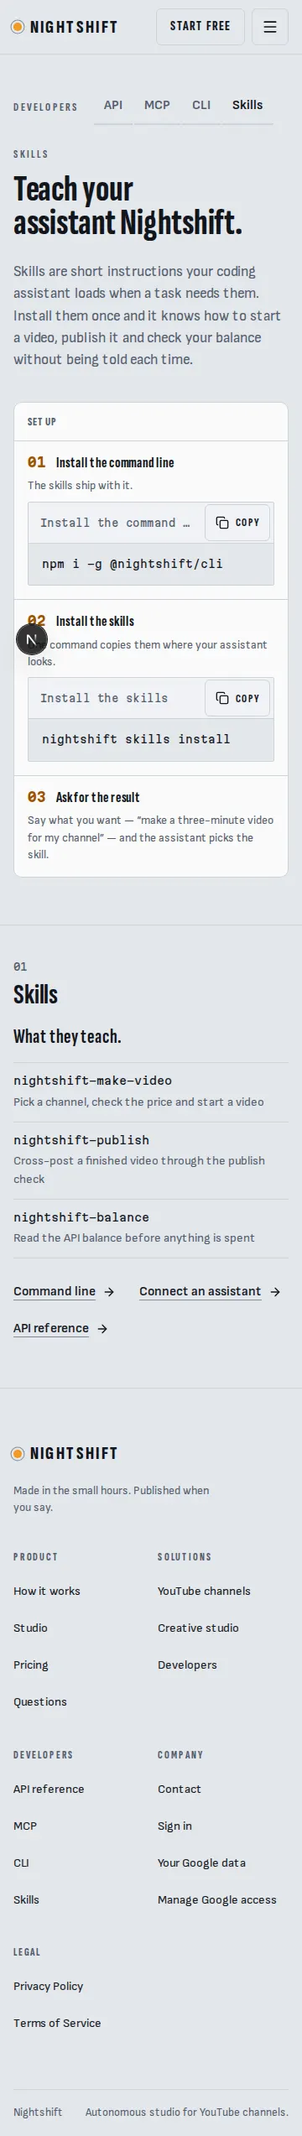
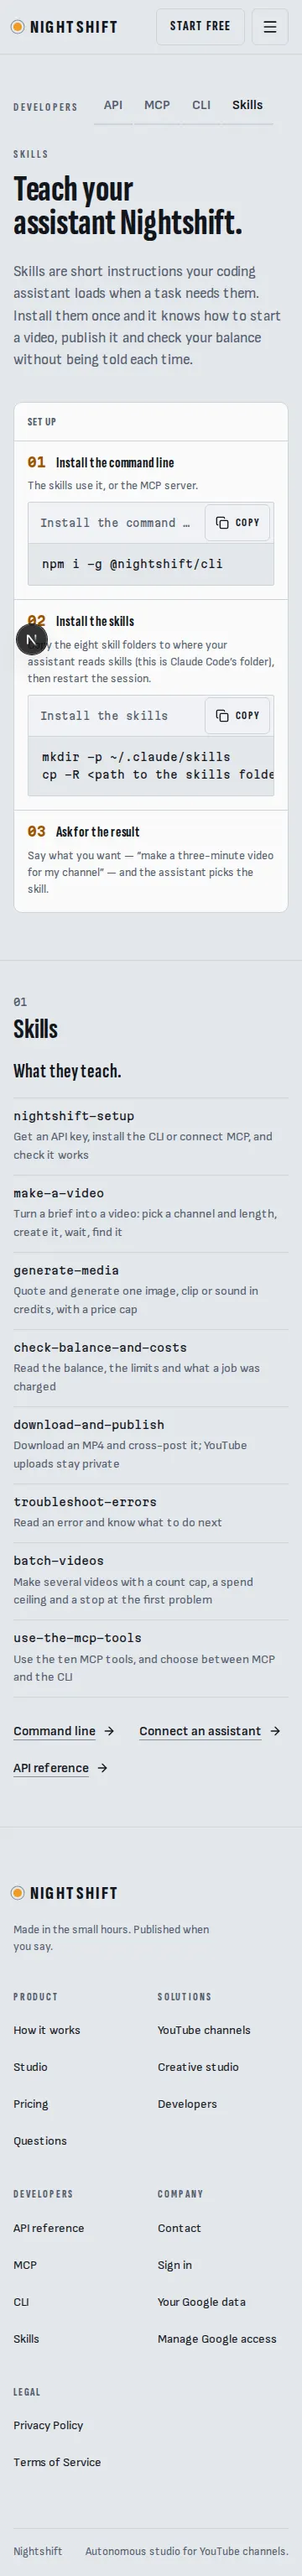
Developer pages: real CLI commands and skills, truthful balance wording on the developers solution
Claude-Session: https://claude.ai/code/session_01U9oHiSfJHWxDDyJSd8fLSk

diff --git a/command-center/lib/i18n/site/dev-ru.ts b/command-center/lib/i18n/site/dev-ru.ts
@@ -252,7 +252,7 @@ export const devRu: DevDictionary = {
     steps: [
       { id: "install", title: "Установите", body: "Нужен Node.js. Одна глобальная установка." },
       { id: "login", title: "Войдите", body: "Вставьте API-ключ из «Разработчикам» → «API-ключи», когда его попросят. Он хранится на этом компьютере." },
-      { id: "run", title: "Выполните команду", body: "Начните со своих каналов. Любая команда показывает цену до того, как что-то потратит." },
+      { id: "run", title: "Выполните команду", body: "Команды, которые тратят деньги, сообщают, что зарезервировано, и ничего не списывается, пока работа не завершена успешно." },
     ],
     commands: {
       slug: "Команды",
@@ -260,13 +260,23 @@ export const devRu: DevDictionary = {
       table: "Команды",
       cols: { command: "Команда", what: "Что делает" },
       list: [
-        { id: "login", what: "Сохранить API-ключ на этом компьютере" },
+        { id: "login", what: "Сохранить API-ключ на этом компьютере (сначала он проверяется)" },
+        { id: "logout", what: "Удалить сохранённый ключ с этого компьютера" },
+        { id: "whoami", what: "Показать вашу организацию, уровень и лимиты" },
+        { id: "balance", what: "Показать предоплаченный баланс API, зарезервированную сумму и расходы за месяц" },
         { id: "channels", what: "Показать ваши каналы и их id" },
-        { id: "create", what: "Запустить видео для канала" },
-        { id: "job", what: "Следить за задачей: статус и списание" },
-        { id: "publish", what: "Опубликовать готовое видео на других площадках" },
-        { id: "download", what: "Заказать и скачать HD-файл" },
-        { id: "balance", what: "Показать баланс API и уровень" },
+        { id: "accounts", what: "Показать, куда можно публиковать" },
+        { id: "create", what: "Создать видео; зарезервированная сумма выводится, а --wait следит за задачей" },
+        { id: "jobs-get", what: "Показать статус задачи на видео и списание" },
+        { id: "videos-list", what: "Показать видео, сначала новые" },
+        { id: "videos-get", what: "Показать одно видео с запросами на публикацию" },
+        { id: "download-request", what: "Заказать MP4 в 720p или 1080p" },
+        { id: "download-get", what: "Показать статус скачивания" },
+        { id: "download-save", what: "Сохранить готовый файл скачивания" },
+        { id: "publish", what: "Опубликовать готовое видео на других площадках (бесплатно; на YouTube загрузка остаётся приватной)" },
+        { id: "quote", what: "Показать цену одной генерации в кредитах" },
+        { id: "generate", what: "Запустить генерацию (--max-credits обязателен)" },
+        { id: "generations-get", what: "Показать генерацию, запущенную этим ключом" },
       ],
     },
     more: { api: "Справочник API", skills: "Навыки для агентов", mcp: "Подключить ассистента" },
@@ -281,8 +291,8 @@ export const devRu: DevDictionary = {
     lead: "Навыки — это короткие инструкции, которые ассистент для кода подгружает, когда задаче они нужны. Установите их один раз, и он будет знать, как запустить видео, опубликовать его и проверить баланс, без напоминаний каждый раз.",
     cardTitle: "Настройка",
     steps: [
-      { id: "install", title: "Установите командную строку", body: "Навыки идут вместе с ней." },
-      { id: "skills", title: "Установите навыки", body: "Одна команда копирует их туда, где их ищет ассистент." },
+      { id: "install", title: "Установите командную строку", body: "Навыки используют её или MCP-сервер." },
+      { id: "skills", title: "Установите навыки", body: "Скопируйте восемь папок с навыками туда, где ваш ассистент читает навыки (это папка Claude Code), и перезапустите сессию." },
       { id: "ask", title: "Попросите результат", body: "Скажите, что нужно, — «сделай трёхминутное видео для моего канала», — и ассистент выберет навык." },
     ],
     list: {
@@ -291,9 +301,14 @@ export const devRu: DevDictionary = {
       table: "Навыки",
       cols: { skill: "Навык", what: "Чему учит" },
       items: [
-        { id: "make-video", what: "Выбрать канал, проверить цену и запустить видео" },
-        { id: "publish", what: "Опубликовать готовое видео через проверку перед публикацией" },
-        { id: "balance", what: "Прочитать баланс API до любых трат" },
+        { id: "nightshift-setup", what: "Получить API-ключ, установить CLI или подключить MCP и проверить, что всё работает" },
+        { id: "make-a-video", what: "Превратить задание в видео: выбрать канал и длину, создать, дождаться, найти" },
+        { id: "generate-media", what: "Узнать цену и создать одну картинку, клип или звук в кредитах с ограничением цены" },
+        { id: "check-balance-and-costs", what: "Прочитать баланс, лимиты и то, сколько списано за задачу" },
+        { id: "download-and-publish", what: "Скачать MP4 и опубликовать на других площадках; на YouTube загрузка остаётся приватной" },
+        { id: "troubleshoot-errors", what: "Прочитать ошибку и понять, что делать дальше" },
+        { id: "batch-videos", what: "Создать несколько видео с лимитом по числу, потолком трат и остановкой при первой проблеме" },
+        { id: "use-the-mcp-tools", what: "Пользоваться десятью инструментами MCP и выбирать между MCP и CLI" },
       ],
     },
     more: { api: "Справочник API", cli: "Командная строка", mcp: "Подключить ассистента" },

diff --git a/command-center/lib/i18n/site/dev-uz.ts b/command-center/lib/i18n/site/dev-uz.ts
@@ -252,7 +252,7 @@ export const devUz: DevDictionary = {
     steps: [
       { id: "install", title: "Oʻrnating", body: "Node.js kerak. Bitta global oʻrnatish." },
       { id: "login", title: "Kiring", body: "Soʻralganda “Dasturchilar” → “API kalitlari” dagi API kalitni qoʻying. U shu kompyuterda saqlanadi." },
-      { id: "run", title: "Buyruq bajaring", body: "Kanallaringizdan boshlang. Har bir buyruq biror narsa sarflashdan oldin narxni koʻrsatadi." },
+      { id: "run", title: "Buyruq bajaring", body: "Pul sarflaydigan buyruqlar nima band qilinganini aytadi, ish muvaffaqiyatli tugamaguncha hech narsa yechilmaydi." },
     ],
     commands: {
       slug: "Buyruqlar",
@@ -260,13 +260,23 @@ export const devUz: DevDictionary = {
       table: "Buyruqlar",
       cols: { command: "Buyruq", what: "Nima qiladi" },
       list: [
-        { id: "login", what: "API kalitni shu kompyuterda saqlash" },
+        { id: "login", what: "API kalitni shu kompyuterda saqlash (avval tekshiriladi)" },
+        { id: "logout", what: "Saqlangan kalitni shu kompyuterdan oʻchirish" },
+        { id: "whoami", what: "Tashkilotingiz, daraja va limitlarni koʻrsatish" },
+        { id: "balance", what: "Oldindan toʻlangan API balansi, band qilingan summa va shu oydagi sarfni koʻrsatish" },
         { id: "channels", what: "Kanallaringiz va ularning id’larini koʻrsatish" },
-        { id: "create", what: "Kanal uchun video boshlash" },
-        { id: "job", what: "Vazifani kuzatish: holat va yechilgan summa" },
-        { id: "publish", what: "Tayyor videoni boshqa platformalarda nashr qilish" },
-        { id: "download", what: "HD faylga buyurtma berish va yuklab olish" },
-        { id: "balance", what: "API balansi va darajasini koʻrsatish" },
+        { id: "accounts", what: "Qayerda nashr qilish mumkinligini koʻrsatish" },
+        { id: "create", what: "Video yaratish; band qilingan summa chiqariladi, --wait esa vazifani kuzatadi" },
+        { id: "jobs-get", what: "Video vazifasining holati va yechilgan summani koʻrsatish" },
+        { id: "videos-list", what: "Videolar roʻyxati, yangilari birinchi" },
+        { id: "videos-get", what: "Nashr soʻrovlari bilan bitta videoni koʻrsatish" },
+        { id: "download-request", what: "720p yoki 1080p MP4 ga buyurtma berish" },
+        { id: "download-get", what: "Yuklab olish holatini koʻrsatish" },
+        { id: "download-save", what: "Tayyor yuklab olishni fayl sifatida saqlash" },
+        { id: "publish", what: "Tayyor videoni boshqa platformalarda nashr qilish (bepul; YouTube’ga yuklash maxfiy qoladi)" },
+        { id: "quote", what: "Bitta generatsiyaning kreditlardagi narxini koʻrsatish" },
+        { id: "generate", what: "Generatsiyani boshlash (--max-credits majburiy)" },
+        { id: "generations-get", what: "Shu kalit boshlagan generatsiyani koʻrsatish" },
       ],
     },
     more: { api: "API maʼlumotnomasi", skills: "Agent koʻnikmalari", mcp: "Yordamchini ulash" },
@@ -281,8 +291,8 @@ export const devUz: DevDictionary = {
     lead: "Koʻnikmalar — kod yordamchingiz vazifaga kerak boʻlganda yuklaydigan qisqa yoʻriqnomalar. Ularni bir marta oʻrnating, shunda u har safar eslatilmasdan video boshlash, nashr qilish va balansni tekshirishni biladi.",
     cardTitle: "Sozlash",
     steps: [
-      { id: "install", title: "Buyruq qatorini oʻrnating", body: "Koʻnikmalar u bilan birga keladi." },
-      { id: "skills", title: "Koʻnikmalarni oʻrnating", body: "Bitta buyruq ularni yordamchingiz qidiradigan joyga nusxalaydi." },
+      { id: "install", title: "Buyruq qatorini oʻrnating", body: "Koʻnikmalar uni yoki MCP serverini ishlatadi." },
+      { id: "skills", title: "Koʻnikmalarni oʻrnating", body: "Sakkizta koʻnikma jildini yordamchingiz koʻnikmalarni oʻqiydigan joyga nusxalang (bu Claude Code jildi), keyin sessiyani qayta ishga tushiring." },
       { id: "ask", title: "Natijani soʻrang", body: "Nima kerakligini ayting — “kanalim uchun uch daqiqalik video yarat” — va yordamchi koʻnikmani oʻzi tanlaydi." },
     ],
     list: {
@@ -291,9 +301,14 @@ export const devUz: DevDictionary = {
       table: "Koʻnikmalar",
       cols: { skill: "Koʻnikma", what: "Nimani oʻrgatadi" },
       items: [
-        { id: "make-video", what: "Kanalni tanlash, narxni tekshirish va video boshlash" },
-        { id: "publish", what: "Tayyor videoni nashrdan oldingi tekshiruv orqali nashr qilish" },
-        { id: "balance", what: "Biror narsa sarflanishidan oldin API balansini oʻqish" },
+        { id: "nightshift-setup", what: "API kalit olish, CLI oʻrnatish yoki MCP’ni ulash va ishlashini tekshirish" },
+        { id: "make-a-video", what: "Topshiriqni videoga aylantirish: kanal va uzunlikni tanlash, yaratish, kutish, topish" },
+        { id: "generate-media", what: "Narxni bilib, bitta rasm, klip yoki tovushni kreditlarda narx chegarasi bilan yaratish" },
+        { id: "check-balance-and-costs", what: "Balans, limitlar va vazifa uchun yechilgan summani oʻqish" },
+        { id: "download-and-publish", what: "MP4 yuklab olish va boshqa platformalarda nashr qilish; YouTube’ga yuklash maxfiy qoladi" },
+        { id: "troubleshoot-errors", what: "Xatoni oʻqib, keyin nima qilishni bilish" },
+        { id: "batch-videos", what: "Bir nechta videoni son chegarasi, sarf chegarasi va birinchi muammoda toʻxtash bilan yaratish" },
+        { id: "use-the-mcp-tools", what: "Oʻnta MCP vositasidan foydalanish va MCP bilan CLI oʻrtasida tanlash" },
       ],
     },
     more: { api: "API maʼlumotnomasi", cli: "Buyruq qatori", mcp: "Yordamchini ulash" },

diff --git a/command-center/lib/i18n/site/dev-en.ts b/command-center/lib/i18n/site/dev-en.ts
@@ -264,7 +264,7 @@ export const devEn = {
     steps: [
       { id: "install", title: "Install it", body: "Needs Node.js. One global install." },
       { id: "login", title: "Log in", body: "Paste an API key from Developers → API keys when asked. It is kept on this computer." },
-      { id: "run", title: "Run a command", body: "Start with your channels. Every command prints the price before it spends." },
+      { id: "run", title: "Run a command", body: "Commands that spend say what is reserved, and nothing is charged until the work succeeds." },
     ],
     commands: {
       slug: "Commands",
@@ -272,13 +272,23 @@ export const devEn = {
       table: "Commands",
       cols: { command: "Command", what: "What it does" },
       list: [
-        { id: "login", what: "Save an API key for this computer" },
+        { id: "login", what: "Save an API key on this computer (checked first)" },
+        { id: "logout", what: "Delete the saved key from this computer" },
+        { id: "whoami", what: "Show your organization, tier and limits" },
+        { id: "balance", what: "Show the prepaid API balance, the reserved amount and this month’s spend" },
         { id: "channels", what: "List your channels and their ids" },
-        { id: "create", what: "Start a video for a channel" },
-        { id: "job", what: "Follow a video job: status and charge" },
-        { id: "publish", what: "Cross-post a finished video" },
-        { id: "download", what: "Order and fetch an HD download" },
-        { id: "balance", what: "Show your API balance and tier" },
+        { id: "accounts", what: "List where you can publish" },
+        { id: "create", what: "Make a video; the amount reserved is printed, and --wait follows the job" },
+        { id: "jobs-get", what: "Show a video job’s status and charge" },
+        { id: "videos-list", what: "List videos, newest first" },
+        { id: "videos-get", what: "Show one video with its publish requests" },
+        { id: "download-request", what: "Order a 720p or 1080p MP4" },
+        { id: "download-get", what: "Show a download’s status" },
+        { id: "download-save", what: "Save a ready download as a file" },
+        { id: "publish", what: "Cross-post a finished video (free; YouTube uploads stay private)" },
+        { id: "quote", what: "Show the price of one generation, in credits" },
+        { id: "generate", what: "Start a generation (--max-credits is required)" },
+        { id: "generations-get", what: "Show a generation this key started" },
       ],
     },
     more: { api: "API reference", skills: "Agent skills", mcp: "Connect an assistant" },
@@ -293,8 +303,8 @@ export const devEn = {
     lead: "Skills are short instructions your coding assistant loads when a task needs them. Install them once and it knows how to start a video, publish it and check your balance without being told each time.",
     cardTitle: "Set up",
     steps: [
-      { id: "install", title: "Install the command line", body: "The skills ship with it." },
-      { id: "skills", title: "Install the skills", body: "One command copies them where your assistant looks." },
+      { id: "install", title: "Install the command line", body: "The skills use it, or the MCP server." },
+      { id: "skills", title: "Install the skills", body: "Copy the eight skill folders to where your assistant reads skills (this is Claude Code’s folder), then restart the session." },
       { id: "ask", title: "Ask for the result", body: "Say what you want — “make a three-minute video for my channel” — and the assistant picks the skill." },
     ],
     list: {
@@ -303,9 +313,14 @@ export const devEn = {
       table: "Skills",
       cols: { skill: "Skill", what: "What it teaches" },
       items: [
-        { id: "make-video", what: "Pick a channel, check the price and start a video" },
-        { id: "publish", what: "Cross-post a finished video through the publish check" },
-        { id: "balance", what: "Read the API balance before anything is spent" },
+        { id: "nightshift-setup", what: "Get an API key, install the CLI or connect MCP, and check it works" },
+        { id: "make-a-video", what: "Turn a brief into a video: pick a channel and length, create it, wait, find it" },
+        { id: "generate-media", what: "Quote and generate one image, clip or sound in credits, with a price cap" },
+        { id: "check-balance-and-costs", what: "Read the balance, the limits and what a job was charged" },
+        { id: "download-and-publish", what: "Download an MP4 and cross-post it; YouTube uploads stay private" },
+        { id: "troubleshoot-errors", what: "Read an error and know what to do next" },
+        { id: "batch-videos", what: "Make several videos with a count cap, a spend ceiling and a stop at the first problem" },
+        { id: "use-the-mcp-tools", what: "Use the ten MCP tools, and choose between MCP and the CLI" },
       ],
     },
     more: { api: "API reference", cli: "Command line", mcp: "Connect an assistant" },

diff --git a/command-center/lib/dev/cli-skills.ts b/command-center/lib/dev/cli-skills.ts
@@ -1,16 +1,15 @@
 /**
- * What /docs/cli and /docs/skills tell people to type — in ONE place, so the
- * day the command-line tool and the skills are published (they are built on
- * branch claude/dev-cli-skills: packages/cli, skills/) this is the only file
- * that changes. The pages themselves are off until DEV_CLI_PAGE=1
- * (lib/dev-pages.ts).
+ * What /docs/cli and /docs/skills tell people to type — in ONE place. These are
+ * the real command table of packages/cli (docs/CLI.md; `nightshift commands
+ * --json`) and the eight skills in skills/ (skills/README.md); the words per
+ * language are in lib/i18n/site/dev-*.ts keyed by `id`, and
+ * tests/dev-pages-copy.test.ts keeps the ids equal in every language.
+ * tests/test_cli_package.py and tests/test_agent_skills.py already keep the CLI
+ * and skills honest against the API; tests/dev-pages-copy.test.ts keeps these
+ * lists equal to them.
  *
- * PLACEHOLDER: the install, login and skills-install lines are the ones agreed
- * for the first release. The command list and the skill list below are
- * PLACEHOLDERS drawn from what the public API can do — replace them with the
- * names and one-line descriptions from packages/cli and skills/ before the flag
- * is switched on (their text, per language, is in lib/i18n/site/dev-*.ts keyed
- * by `id`; tests/dev-pages-copy.test.ts keeps the ids equal in every language).
+ * The pages stay off until DEV_CLI_PAGE=1 (lib/dev-pages.ts): the package is
+ * not published to npm yet, so the install line would be a false promise.
  */
 
 export const CLI_PACKAGE = "@nightshift/cli";
@@ -18,23 +17,43 @@ export const CLI_INSTALL = `npm i -g ${CLI_PACKAGE}`;
 export const CLI_LOGIN = "nightshift login";
 /** The first command a new person runs after logging in. */
 export const CLI_FIRST_RUN = "nightshift channels";
-/** PLACEHOLDER until skills/README lands: how the skills are installed. */
-export const SKILLS_INSTALL = "nightshift skills install";
+/**
+ * How the skills are installed today: copy the folders to where the assistant
+ * reads them (skills/README.md). The `npx skills add <owner>/<repo>` route
+ * there is an owner TODO until the repository is public; change this line the
+ * day it works.
+ */
+export const SKILLS_INSTALL = "mkdir -p ~/.claude/skills\ncp -R <path to the skills folder>/* ~/.claude/skills/";
 
-/** PLACEHOLDER command list: id → the command as typed. */
+/** The CLI's commands (docs/CLI.md): id → the command as typed, in the table's order. */
 export const CLI_COMMANDS = [
   { id: "login", command: "nightshift login" },
-  { id: "channels", command: "nightshift channels" },
-  { id: "create", command: "nightshift videos create" },
-  { id: "job", command: "nightshift jobs get <id>" },
-  { id: "publish", command: "nightshift videos publish <id>" },
-  { id: "download", command: "nightshift videos download <id>" },
+  { id: "logout", command: "nightshift logout" },
+  { id: "whoami", command: "nightshift whoami" },
   { id: "balance", command: "nightshift balance" },
+  { id: "channels", command: "nightshift channels" },
+  { id: "accounts", command: "nightshift accounts" },
+  { id: "create", command: "nightshift create --channel ID --topic TEXT [--wait]" },
+  { id: "jobs-get", command: "nightshift jobs get ID [--wait]" },
+  { id: "videos-list", command: "nightshift videos list [--channel ID]" },
+  { id: "videos-get", command: "nightshift videos get VIDEO_ID" },
+  { id: "download-request", command: "nightshift download request VIDEO_ID --quality 1080p [--wait]" },
+  { id: "download-get", command: "nightshift download get ID [--wait]" },
+  { id: "download-save", command: "nightshift download save ID [--out FILE]" },
+  { id: "publish", command: "nightshift publish VIDEO_ID --youtube CHANNEL_ID --account UUID" },
+  { id: "quote", command: "nightshift quote --capability NAME --model ID --prompt TEXT" },
+  { id: "generate", command: "nightshift generate --capability NAME --model ID --prompt TEXT --max-credits N [--wait]" },
+  { id: "generations-get", command: "nightshift generations get ID [--wait]" },
 ] as const;
 
-/** PLACEHOLDER skill list: id → the skill's name as installed. */
+/** The eight skills (skills/README.md), in the README's order. The name is the folder name. */
 export const SKILLS = [
-  { id: "make-video", name: "nightshift-make-video" },
-  { id: "publish", name: "nightshift-publish" },
-  { id: "balance", name: "nightshift-balance" },
+  { id: "nightshift-setup", name: "nightshift-setup" },
+  { id: "make-a-video", name: "make-a-video" },
+  { id: "generate-media", name: "generate-media" },
+  { id: "check-balance-and-costs", name: "check-balance-and-costs" },
+  { id: "download-and-publish", name: "download-and-publish" },
+  { id: "troubleshoot-errors", name: "troubleshoot-errors" },
+  { id: "batch-videos", name: "batch-videos" },
+  { id: "use-the-mcp-tools", name: "use-the-mcp-tools" },
 ] as const;

diff --git a/command-center/lib/i18n/site/ru.ts b/command-center/lib/i18n/site/ru.ts
@@ -329,13 +329,13 @@ export const siteRu: SiteDictionary = {
         what: [
           { title: "REST API", body: "Каналы, видео, задачи, загрузки и баланс по адресу /api/v1, с bearer-ключом." },
           { title: "MCP-эндпоинт", body: "Те же ключи работают с ассистентами, которые понимают Model Context Protocol." },
-          { title: "Свой баланс", body: "API оплачивается с отдельного предоплаченного баланса с видимыми месячными лимитами." },
+          { title: "Свой баланс", body: "Видео, созданные через API, оплачиваются с отдельного предоплаченного баланса с видимыми месячными лимитами. Генерации оплачиваются вашими кредитами, как в Студии." },
           { title: "Ключи под контролем", body: "Создавайте и отзывайте ключи в консоли разработчика и смотрите там же расход и лимиты." },
         ],
         not: [
           "Не откроет API, пока вы не включите его и не примете условия API.",
           "Не опубликует в обход — видео, сделанные через API, проходят те же ворота одобрения.",
-          "Не будет списывать вызовы API с вашего баланса кредитов.",
+          "Не смешивает два баланса: видео оплачиваются с баланса API, а генерации — вашими кредитами.",
         ],
         start: ["Прочитайте справочник API", "Включите API в консоли разработчика", "Создайте ключ и сделайте первый вызов"],
         docs: "Справочник API",

diff --git a/command-center/tests/dev-pages-copy.test.ts b/command-center/tests/dev-pages-copy.test.ts
@@ -1,4 +1,7 @@
 import { describe, expect, it } from "vitest";
+import { execFileSync } from "node:child_process";
+import { readdirSync } from "node:fs";
+import { join } from "node:path";
 import { devEn } from "@/lib/i18n/site/dev-en";
 import { devRu } from "@/lib/i18n/site/dev-ru";
 import { devUz } from "@/lib/i18n/site/dev-uz";
@@ -93,5 +96,21 @@ describe("developer pages copy", () => {
 
   it("lists the tools the server really has, in the server's order", () => {
     expect([...MCP_TOOL_IDS]).toEqual([...TOOL_NAMES]);
+  });
+
+  it("lists the CLI's real commands, in its own order (packages/cli, docs/CLI.md)", () => {
+    const root = join(__dirname, "..", "..", "packages", "cli", "bin");
+    const bin = join(root, readdirSync(root)[0]);
+    const table = JSON.parse(execFileSync("node", [bin, "commands", "--json"], { encoding: "utf8" })) as { commands: { name: string }[] };
+    const real = table.commands.map((c) => c.name).filter((n) => n !== "commands" && n !== "help");
+    const typed = CLI_COMMANDS.map((c) => c.command.replace(/^nightshift /, "").split(/ (?:--|[A-Z\[])/)[0].trim());
+    expect(typed).toEqual(real);
+    for (const c of CLI_COMMANDS) expect(c.command.startsWith("nightshift ")).toBe(true);
+  });
+
+  it("lists the skills that are really in skills/", () => {
+    const dir = join(__dirname, "..", "..", "skills");
+    const real = readdirSync(dir, { withFileTypes: true }).filter((d) => d.isDirectory()).map((d) => d.name).sort();
+    expect(SKILLS.map((s) => s.name).sort()).toEqual(real);
   });
 });

diff --git a/command-center/lib/i18n/site/uz.ts b/command-center/lib/i18n/site/uz.ts
@@ -329,13 +329,13 @@ export const siteUz: SiteDictionary = {
         what: [
           { title: "REST API", body: "Kanallar, videolar, vazifalar, yuklab olishlar va balans /api/v1 manzilida, bearer kalit bilan." },
           { title: "MCP nuqtasi", body: "Oʻsha kalitlar Model Context Protocol’ni tushunadigan yordamchilar bilan ishlaydi." },
-          { title: "Alohida balans", body: "API oylik limitlari koʻrinib turadigan alohida oldindan toʻlangan balansdan toʻlanadi." },
+          { title: "Alohida balans", body: "API orqali yaratilgan videolar oylik limitlari koʻrinib turadigan alohida oldindan toʻlangan balansdan toʻlanadi. Generatsiyalar — Studiyadagidek — kreditlaringizdan toʻlanadi." },
           { title: "Nazoratdagi kalitlar", body: "Dasturchi konsolida kalitlarni yarating va bekor qiling, sarf va limitlarni ham shu yerda koʻring." },
         ],
         not: [
           "Siz yoqmaguningizcha va API shartlarini qabul qilmaguningizcha API ochilmaydi.",
           "Aylanma yoʻl bilan nashr qilmaydi — API orqali yaratilgan videolar ham oʻsha tasdiqlash darvozasidan oʻtadi.",
-          "API chaqiruvlarini kredit balansingizdan yechmaydi.",
+          "Ikki balansni aralashtirmaydi: videolar API balansidan, generatsiyalar esa kreditlaringizdan toʻlanadi.",
         ],
         start: ["API maʼlumotnomasini oʻqing", "Dasturchi konsolida API’ni yoqing", "Kalit yarating va birinchi chaqiruvni bajaring"],
         docs: "API maʼlumotnomasi",

diff --git a/command-center/lib/i18n/site/en.ts b/command-center/lib/i18n/site/en.ts
@@ -338,13 +338,13 @@ export const siteEn = {
         what: [
           { title: "REST API", body: "Channels, videos, jobs, downloads and balance under /api/v1, authorised with a bearer key." },
           { title: "MCP endpoint", body: "The same keys work with assistants that speak the Model Context Protocol." },
-          { title: "Its own balance", body: "API use is paid from a separate prepaid balance with monthly limits you can see." },
+          { title: "Its own balance", body: "Videos made over the API are paid from a separate prepaid balance with monthly limits you can see. Generations use your credits, as in the Studio." },
           { title: "Keys you control", body: "Create and revoke keys in the Developer console, and see usage and limits in the same place." },
         ],
         not: [
           "It will not open the API until you turn it on and accept the API terms.",
           "It will not publish through a side door — videos made over the API pass the same approval gate.",
-          "It will not draw API calls from your credit balance.",
+          "It will not mix the two balances: videos are paid from the API balance, generations from your credits.",
         ],
         start: ["Read the API reference", "Activate the API in the Developer console", "Create a key and make your first call"],
         docs: "Read the API reference",

diff --git a/command-center/tests/dev-pages-ui.test.tsx b/command-center/tests/dev-pages-ui.test.tsx
@@ -229,7 +229,7 @@ describe("the CLI and Skills pages", () => {
     expect(CLI_INSTALL).toBe("npm i -g @nightshift/cli");
     expect(CLI_LOGIN).toBe("nightshift login");
     const skills = renderToStaticMarkup(<SkillsPage dev={dev} labels={labels} />);
-    expect(skills).toContain(SKILLS_INSTALL);
+    expect(skills).toContain(SKILLS_INSTALL.split("\n")[0]);
     expect(skills).toContain(CLI_INSTALL);
     expect((cli.match(/st-copy/g) ?? []).length).toBeGreaterThanOrEqual(3);
   });

diff --git a/docs/CLI.md b/docs/CLI.md
@@ -98,7 +98,7 @@ Human output goes to stdout; progress and notes go to stderr. With `--json`, std
 
 ## For the owner: publishing
 
-The package is not published. Nothing in this repository publishes it. See the checklist in the pull request that added it: npm scope `@nightshift` ownership, two-factor authentication, a licence decision (the repository has none, so `package.json` has no `license` field and `prepublishOnly` refuses to publish until one is set), `npm publish` from `packages/cli`, then the repository variable `DEV_CLI_PAGE=on` to show the web pages.
+The package is not published. Nothing in this repository publishes it. See the checklist in the pull request that added it: npm scope `@nightshift` ownership, two-factor authentication, a licence decision (the repository has none, so `package.json` has no `license` field and `prepublishOnly` refuses to publish until one is set), `npm publish` from `packages/cli`, then the repository variable `DEV_CLI_PAGE=1` to show the web pages.
 
 ## Tests
 
